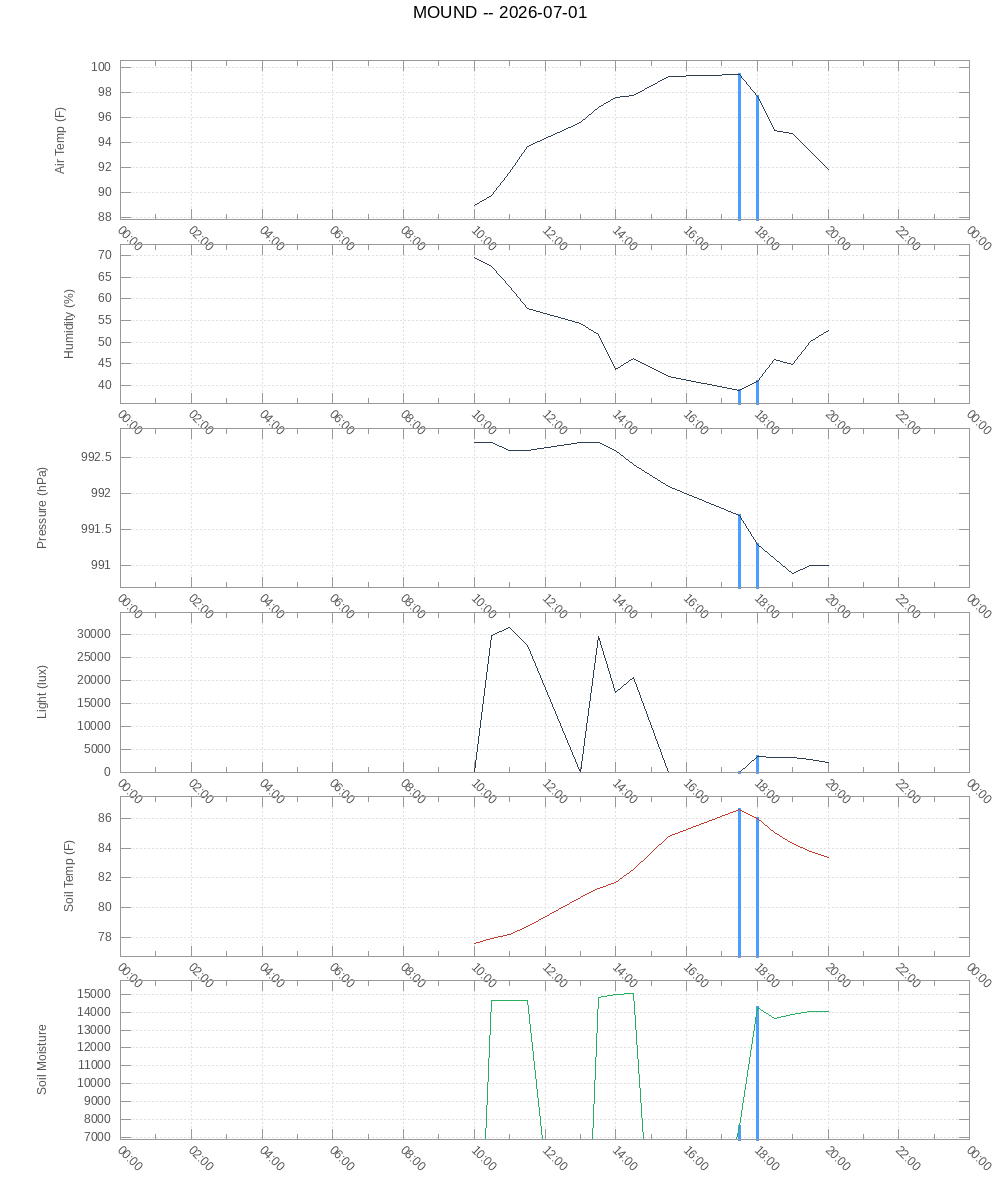
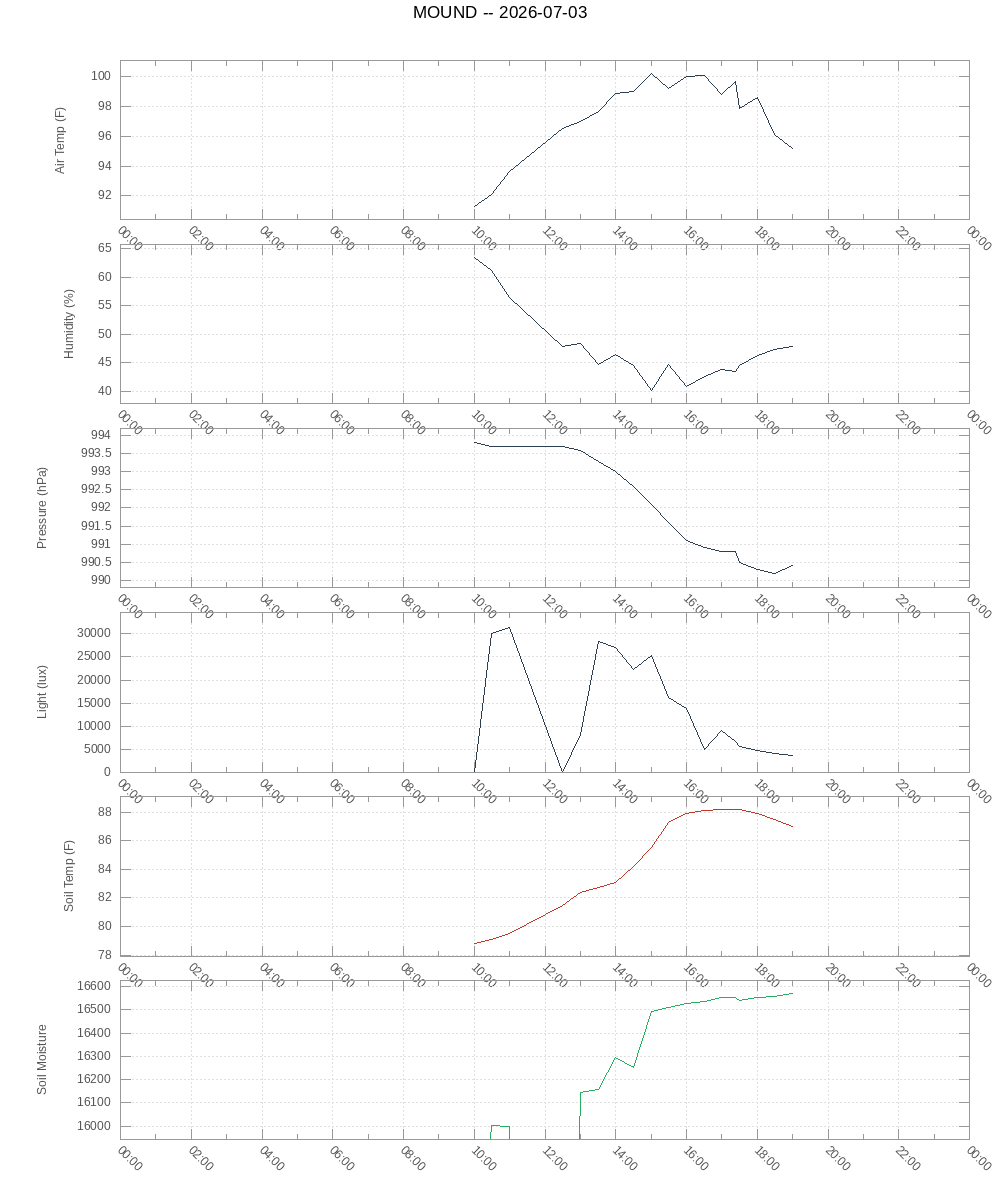
backup

diff --git a/mound/index.html b/mound/index.html
@@ -38,21 +38,21 @@
 
       <hr style="border:none; border-top: 1px solid #ccc; margin: 1rem 0;">
 
-      <p><strong>Last reading:</strong> 2026-07-01 20:00:04</p>
+      <p><strong>Last reading:</strong> 2026-07-03 19:00:03</p>
 
       <table style="border:none; border-collapse:collapse; font-family:inherit; font-size:inherit; color:inherit;">
-        <tr><td style="padding: 0.2rem 1.5rem 0.2rem 0;">Air Temperature</td><td>91.8 F</td></tr>
-        <tr><td style="padding: 0.2rem 1.5rem 0.2rem 0;">Humidity</td><td>52.8%</td></tr>
-        <tr><td style="padding: 0.2rem 1.5rem 0.2rem 0;">Pressure</td><td>991.0 hPa</td></tr>
-        <tr><td style="padding: 0.2rem 1.5rem 0.2rem 0;">Light</td><td>2202 lux</td></tr>
-        <tr><td style="padding: 0.2rem 1.5rem 0.2rem 0;">Soil Temperature</td><td>83.4 F</td></tr>
-        <tr><td style="padding: 0.2rem 1.5rem 0.2rem 0;">Soil Moisture</td><td>Moist</td></tr>
+        <tr><td style="padding: 0.2rem 1.5rem 0.2rem 0;">Air Temperature</td><td>95.2 F</td></tr>
+        <tr><td style="padding: 0.2rem 1.5rem 0.2rem 0;">Humidity</td><td>47.9%</td></tr>
+        <tr><td style="padding: 0.2rem 1.5rem 0.2rem 0;">Pressure</td><td>990.4 hPa</td></tr>
+        <tr><td style="padding: 0.2rem 1.5rem 0.2rem 0;">Light</td><td>3592 lux</td></tr>
+        <tr><td style="padding: 0.2rem 1.5rem 0.2rem 0;">Soil Temperature</td><td>87.0 F</td></tr>
+        <tr><td style="padding: 0.2rem 1.5rem 0.2rem 0;">Soil Moisture</td><td>Moderate</td></tr>
         <tr><td style="padding: 0.2rem 1.5rem 0.2rem 0;">Rain</td><td>No</td></tr>
       </table>
 
       <hr style="border:none; border-top: 1px solid #ccc; margin: 1rem 0;">
 
-      <p><strong>Today -- 2026-07-01</strong></p>
+      <p><strong>Today -- 2026-07-03</strong></p>
 
       <figure>
         <img src="graphs/today.png"
@@ -85,6 +85,8 @@
 
       <p><strong>Daily Archive</strong></p>
       <ul style="list-style:none; padding:0;">
+<li><a href="graphs/archive/2026-07-02.png">2026-07-02</a></li>
+<li><a href="graphs/archive/2026-07-01.png">2026-07-01</a></li>
 <li><a href="graphs/archive/2026-06-30.png">2026-06-30</a></li>
 <li><a href="graphs/archive/2026-06-29.png">2026-06-29</a></li>
 <li><a href="graphs/archive/2026-06-28.png">2026-06-28</a></li>
@@ -114,7 +116,7 @@
 
     </blockquote>
 
-    <p style="font-size: 0.85rem; color: #999;">2026-07-01 · auto-generated</p>
+    <p style="font-size: 0.85rem; color: #999;">2026-07-03 · auto-generated</p>
 
   </div>
 

diff --git a/index.html b/index.html
@@ -35,7 +35,7 @@
     <blockquote>
       <p>
         This is a minimalist, personal website — part blog, part notebook, part time capsule.
-        It exists to keep the original spirit of the early web alive: a real person,
+        It exists to keep the original spirit of yesteryear's web alive: a real person,
         posting real things, for no particular reason other than that they seemed worth keeping.
       </p>
       <p>
